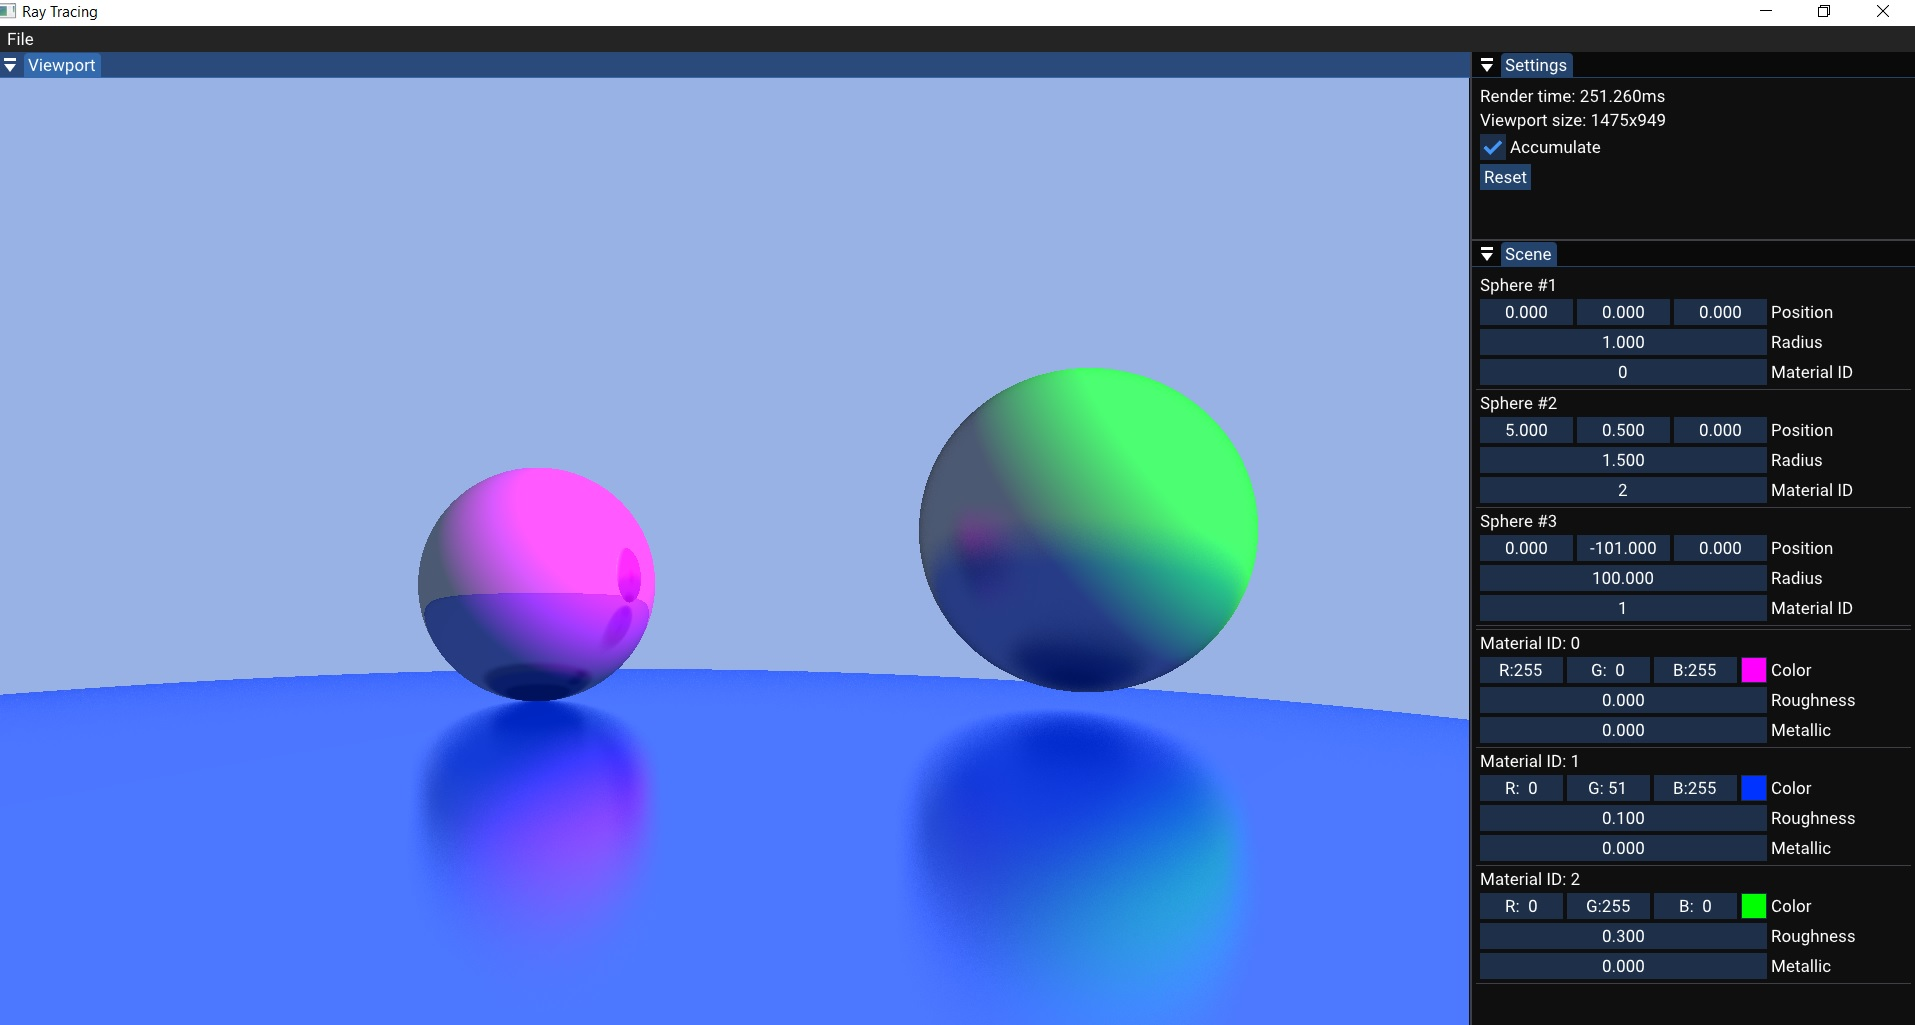
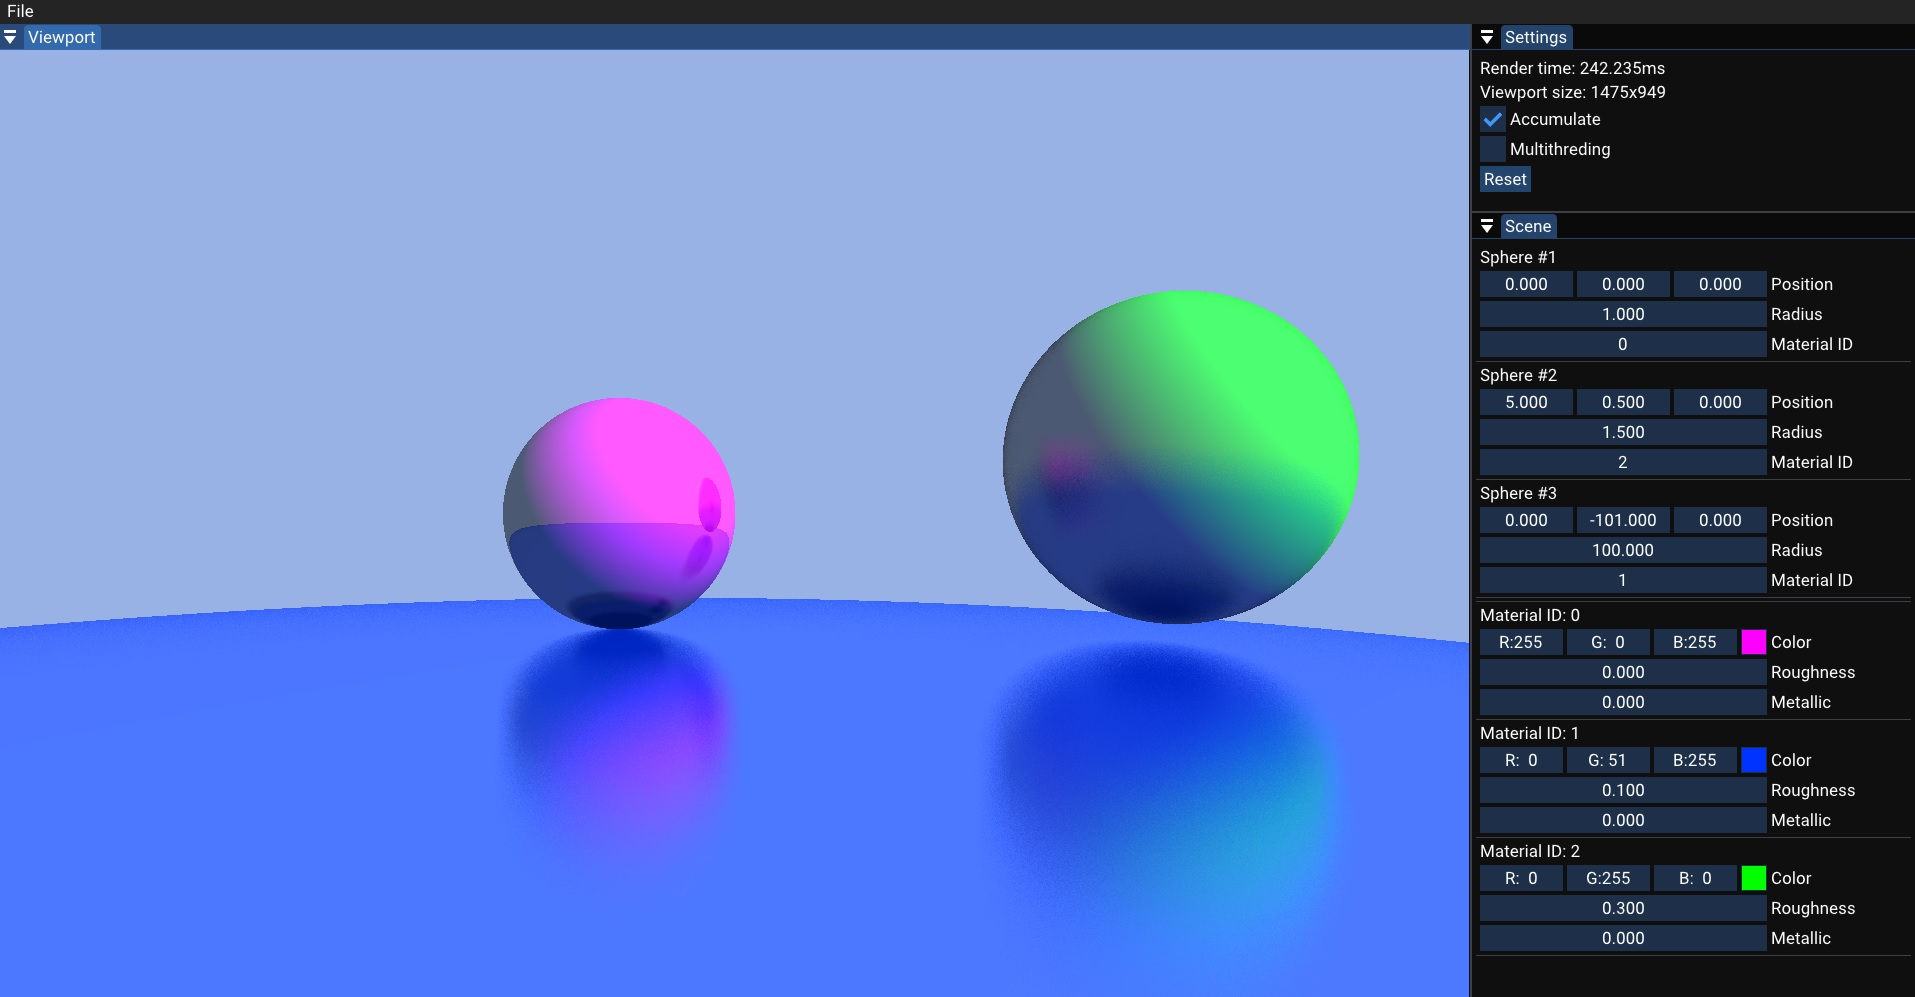
Another update

Changed region(s): [[0.0, 0.0, 1.0, 0.9639]]

diff --git a/RayTracing/src/Renderer.cpp b/RayTracing/src/Renderer.cpp
@@ -1,6 +1,8 @@
 #include "Renderer.h"
 
 #include <iostream>
+#include <execution>
+
 #include <Walnut/Random.h>
 
 namespace Utils
@@ -39,6 +41,13 @@ void Renderer::Resize(uint32_t width, uint32_t height)
 
 	delete[] m_AccumulationData;
 	m_AccumulationData = new glm::vec4[width * height];
+
+	m_ImageHorizontalIt.resize(width);
+	for (uint32_t i = 0; i < width; i++)
+		m_ImageHorizontalIt[i] = i;
+	m_ImageVerticalIt.resize(height);
+	for (uint32_t i = 0; i < height; i++)
+		m_ImageVerticalIt[i] = i;
 }
 
 void Renderer::Render(const Scene& scene, const Camera& camera)
@@ -49,18 +58,46 @@ void Renderer::Render(const Scene& scene, const Camera& camera)
 	if (m_FrameIndex == 1)
 		memset(m_AccumulationData, 0, m_FinalImage->GetHeight() * m_FinalImage->GetWidth() * sizeof(glm::vec4));
 
-	for (uint32_t y = 0; y < m_FinalImage->GetHeight(); y++)
+	/*if (m_FrameIndex > 20)
+		return;*/
+	if (m_Settings.Multithreding)
 	{
-		for (uint32_t x = 0; x < m_FinalImage->GetWidth(); x++)
+		std::for_each(std::execution::par, m_ImageVerticalIt.begin(), m_ImageVerticalIt.end(),
+			[this](uint32_t y)
+			{
+				/*std::for_each(std::execution::par, m_ImageHorizontalIt.begin(), m_ImageHorizontalIt.end(),
+				[this, y](uint32_t x)
+					{
+
+					});*/
+				for (uint32_t x = 0; x < m_FinalImage->GetWidth(); x++)
+				{
+					glm::vec4 color = RenderPixel(x, y);
+					m_AccumulationData[y * m_FinalImage->GetWidth() + x] += color;
+
+					glm::vec4 accumulatedColor = m_AccumulationData[y * m_FinalImage->GetWidth() + x];
+					accumulatedColor /= (float)m_FrameIndex;
+
+					accumulatedColor = glm::clamp(accumulatedColor, glm::vec4(0.0f), glm::vec4(1.0f));
+					m_ImageData[y * m_FinalImage->GetWidth() + x] = Utils::ConvertToRGBA(accumulatedColor);
+				}
+			});
+	}
+	else
+	{
+		for (uint32_t y = 0; y < m_FinalImage->GetHeight(); y++)
 		{
-			glm::vec4 color = RenderPixel(x, y);
-			m_AccumulationData[y * m_FinalImage->GetWidth() + x] += color;
+			for (uint32_t x = 0; x < m_FinalImage->GetWidth(); x++)
+			{
+				glm::vec4 color = RenderPixel(x, y);
+				m_AccumulationData[y * m_FinalImage->GetWidth() + x] += color;
 
-			glm::vec4 accumulatedColor = m_AccumulationData[y * m_FinalImage->GetWidth() + x];
-			accumulatedColor /= (float)m_FrameIndex;
+				glm::vec4 accumulatedColor = m_AccumulationData[y * m_FinalImage->GetWidth() + x];
+				accumulatedColor /= (float)m_FrameIndex;
 
-			accumulatedColor = glm::clamp(accumulatedColor, glm::vec4(0.0f), glm::vec4(1.0f));
-			m_ImageData[y * m_FinalImage->GetWidth() + x] = Utils::ConvertToRGBA(accumulatedColor);
+				accumulatedColor = glm::clamp(accumulatedColor, glm::vec4(0.0f), glm::vec4(1.0f));
+				m_ImageData[y * m_FinalImage->GetWidth() + x] = Utils::ConvertToRGBA(accumulatedColor);
+			}
 		}
 	}
 
@@ -81,7 +118,7 @@ glm::vec4 Renderer::RenderPixel(uint32_t x, uint32_t y)
 	glm::vec3 color(0.0f, 0.0f, 0.0f);
 	float multiplier = 1.0f;
 
-	const int bounces = 5;
+	int bounces = 5;
 
 	for (int i = 0; i < bounces; i++)
 	{

diff --git a/RayTracing/src/Renderer.h b/RayTracing/src/Renderer.h
@@ -15,6 +15,7 @@ public:
 	struct Settings
 	{
 		bool Accumulate = true;
+		bool Multithreding = false;
 	};
 
 public:
@@ -50,6 +51,9 @@ private:
 
 	uint32_t* m_ImageData = nullptr;
 	glm::vec4* m_AccumulationData = nullptr;
+
+	// For multi threading function (for_each)
+	std::vector<uint32_t> m_ImageHorizontalIt, m_ImageVerticalIt;
 
 	uint32_t m_FrameIndex = 1;
 };

diff --git a/RayTracing/src/RayTracing.cpp b/RayTracing/src/RayTracing.cpp
@@ -70,6 +70,7 @@ public:
 		ImGui::Text("Viewport size: %dx%d", m_ViewportWidth, m_ViewportHeight );
 
 		ImGui::Checkbox("Accumulate", &m_Renderer.GetSettings().Accumulate);
+		ImGui::Checkbox("Multithreding", &m_Renderer.GetSettings().Multithreding);
 
 		if (ImGui::Button("Reset"))
 			m_Renderer.ResetFrameIndex();

diff --git a/RayTracing/src/Camera.cpp b/RayTracing/src/Camera.cpp
@@ -88,7 +88,7 @@ bool Camera::OnUpdate(float ts)
 
 void Camera::OnResize(uint32_t width, uint32_t height)
 {
-	if (width == m_ViewportWidth && height != m_ViewportHeight)
+	if (width == m_ViewportWidth && height == m_ViewportHeight)
 		return;
 
 	m_ViewportWidth = width;

diff --git a/README.md b/README.md
@@ -2,11 +2,19 @@
 
 This is a simple application that can render objects using the Ray Tracing method in real time. At the moment, all calculations are performed on the CPU, but they will be transferred to the GPU in the future.
 
+### Camera controls
+- W, A, S, D - move the camera forward, backward, right and left.
+- CTRL, SHIFT - move the camera up and down.
+
 ## Requirements
 - [Vulkan SDK](https://vulkan.lunarg.com/sdk/home#windows)
 
 ## Getting Started
-First, you need to clone this repository. Next, you need to run the `scripts/Setup.bat` file to generate the required project files. Visual Studio 2022 is recommended.
+First, you need to recursively clone this repository: 'git clone --recursive https://github.com/rostikro/RayTracing'. Next, you need to run the `scripts/Setup.bat` file to generate the required project files. Visual Studio 2022 is recommended.
+
+## Features
+- Physically based rendering with materials
+- Camera system
 
 ## Gallery
 ![img1](https://github.com/rostikro/RayTracing/blob/master/images/img1.jpg)
